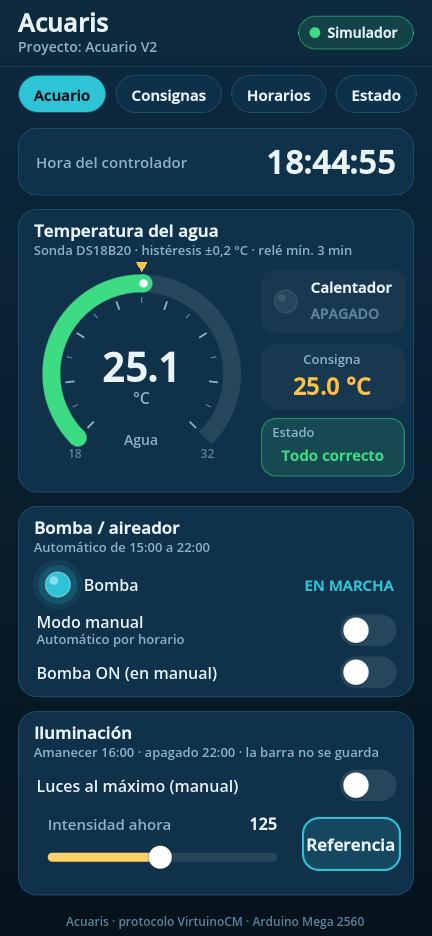
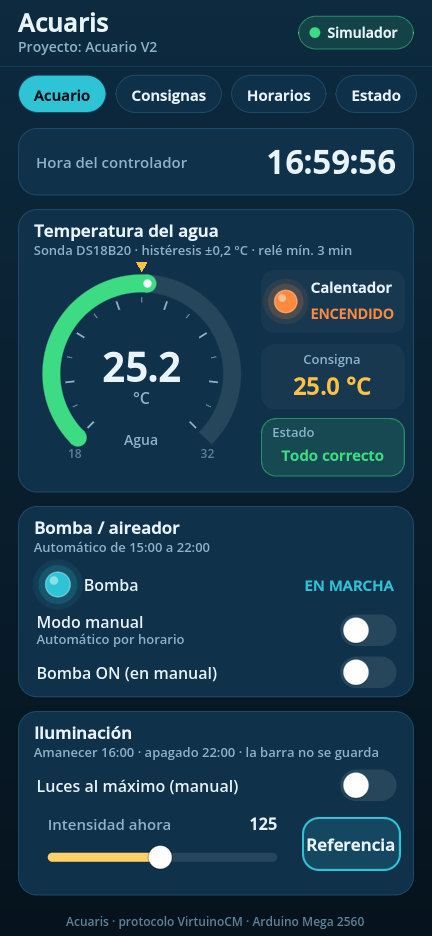
Gráfica avanzada «viva»: curva suave con relleno, franja de confort, zonas de actividad, líneas de alarma, punto vivo y cursor al tocar; capturas con el historial al ritmo simulado
Claude-Session: https://claude.ai/code/session_01VibFWukNYAk8MdVgtqyKg9

diff --git a/herramientas/generar_esquema.py b/herramientas/generar_esquema.py
@@ -146,7 +146,12 @@ tipo("grafica_avanzada", "Gráfica avanzada", 352, 220, "V1", [
     P("titulo", "Título", "texto", "Comparativa"), P("pin_2", "Pin 2", "pin", ""), P("pin_3", "Pin 3", "pin", ""),
     P("rango", "Rango inicial", "opcion", "6 h", RANGOS), P("min", "Mínimo (vacío = auto)", "texto", ""),
     P("max", "Máximo (vacío = auto)", "texto", ""), P("decimales", "Decimales", "entero", 1),
-    P("color", "Color 1", "color", "#2ec4d6"), P("color_2", "Color 2", "color", "#ffc145"), P("color_3", "Color 3", "color", "#3ddc84")], "w_grafica")
+    P("color", "Color 1", "color", "#2ec4d6"), P("color_2", "Color 2", "color", "#ffc145"), P("color_3", "Color 3", "color", "#3ddc84"),
+    P("nombre", "Nombre 1 (leyenda)", "texto", ""), P("nombre_2", "Nombre 2", "texto", ""), P("nombre_3", "Nombre 3", "texto", ""),
+    P("unidad", "Unidad", "texto", ""), P("viva", "Curva suave, relleno y punto vivo", "bool", False),
+    P("pin_franja", "Franja: centro (p. ej. consigna)", "pin", ""), P("pin_franja_ancho", "Franja: ± ancho (p. ej. histéresis)", "pin", ""),
+    P("pin_actividad", "Zonas de actividad (p. ej. calentador)", "pin", ""), P("color_actividad", "Color de actividad", "color", "#ff8a3d"),
+    P("pin_limite_alto", "Línea de alarma alta", "pin", ""), P("pin_limite_bajo", "Línea de alarma baja", "pin", "")], "w_grafica")
 tipo("grafica_emergente", "Gráfica emergente", 220, 56, "V1", [
     P("titulo", "Título", "texto", "Historial"), P("pin_2", "Pin 2", "pin", ""), P("pin_3", "Pin 3", "pin", ""),
     P("unidad", "Unidad", "texto", ""), P("decimales", "Decimales", "entero", 1), P("rango", "Rango inicial", "opcion", "6 h", RANGOS),
